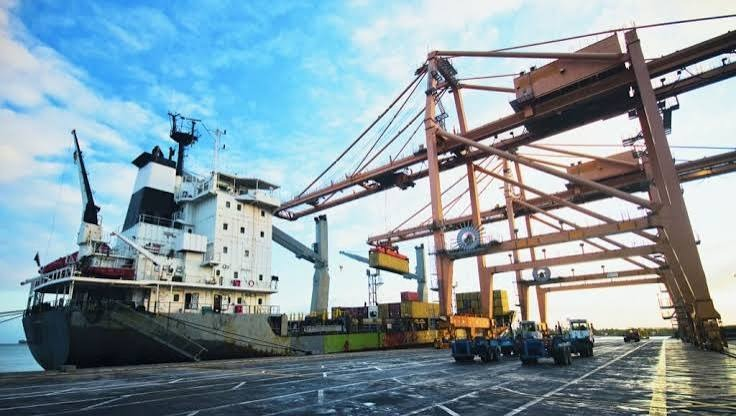
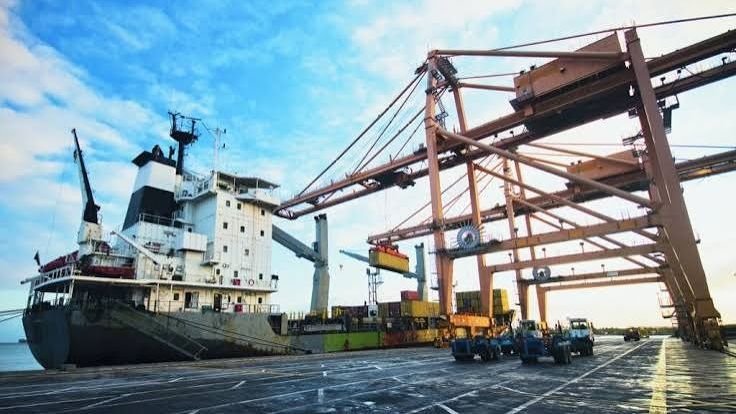
Standardize hero slideshow timing and pre-crop images to 16:9
Timing now matches Bootstrap's carousel defaults (the de facto web
carousel reference) and general UX guidance that auto-rotating
content needs several seconds of dwell time to be read, not just
noticed: 5s interval (was 2s), 600ms crossfade (was 500ms).

Pre-cropped all three source photos to exactly the 16:9 frame they're
displayed in, instead of relying on the browser's default object-cover
crop at render time. Same visible framing (the crop math replicates
what was already showing), but removes the off-frame pixels that were
being downloaded and never shown, re-encoded at a standard web-photo
quality (80, progressive): habor.jpeg 74KB->67KB, habor2.jpeg
58KB->44KB, habor3.jpeg 64KB->34KB.

diff --git a/components/hero-slideshow.tsx b/components/hero-slideshow.tsx
@@ -3,7 +3,12 @@
 import { useEffect, useState } from "react";
 import Image, { type StaticImageData } from "next/image";
 
-const SLIDE_MS = 2000;
+// 5s dwell / 600ms crossfade matches Bootstrap's carousel defaults, the de
+// facto reference for web carousel timing, and general UX guidance that
+// auto-rotating content needs several seconds of dwell time to actually be
+// read, not just noticed. The crossfade duration lives on `.photo-elegant
+// img` in globals.css (shared with every other photo on the site), not here.
+const SLIDE_MS = 5000;
 
 export function HeroSlideshow({
   images,

diff --git a/app/globals.css b/app/globals.css
@@ -251,7 +251,8 @@ p {
 .photo-elegant img {
   transition: transform 700ms cubic-bezier(0.16, 1, 0.3, 1),
     filter 700ms ease,
-    opacity 500ms cubic-bezier(0.16, 1, 0.3, 1);
+    /* 600ms matches Bootstrap's carousel crossfade default. */
+    opacity 600ms cubic-bezier(0.16, 1, 0.3, 1);
 }
 @media (hover: hover) and (pointer: fine) {
   .photo-elegant:hover {
